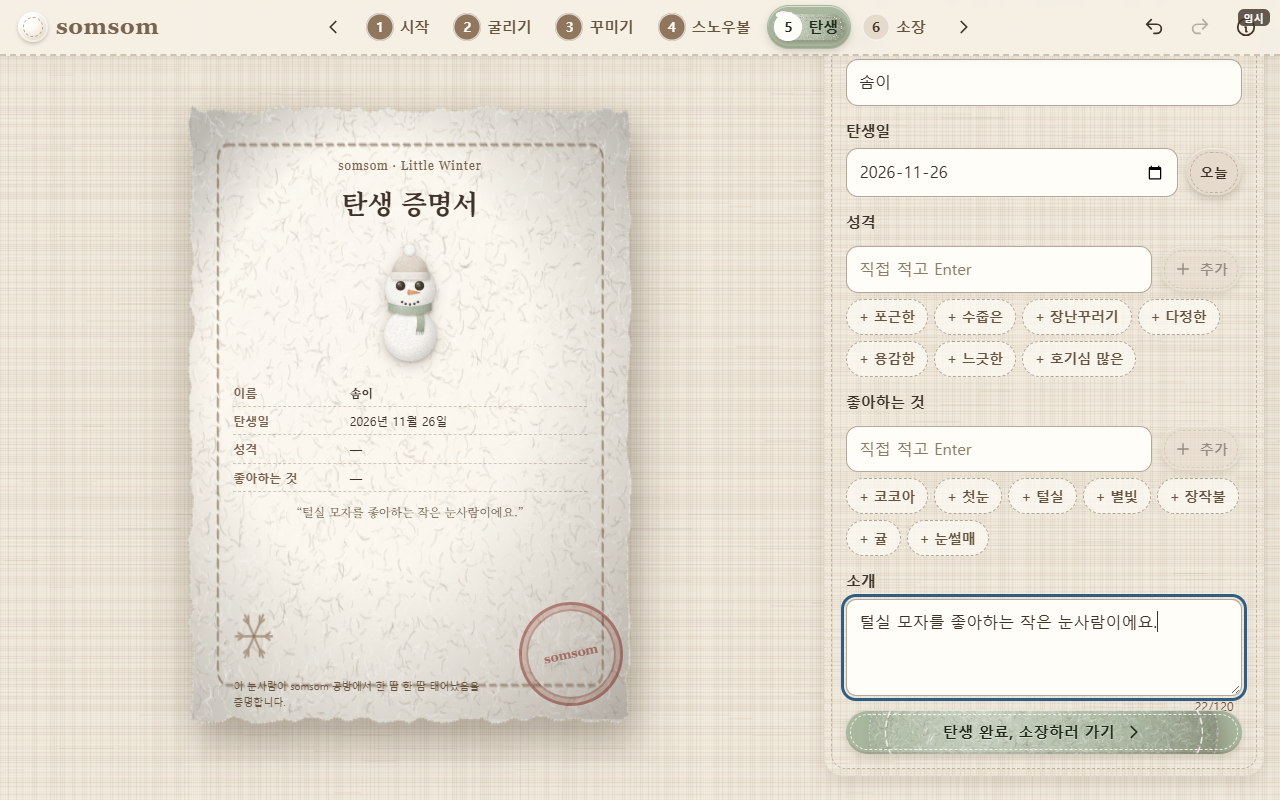
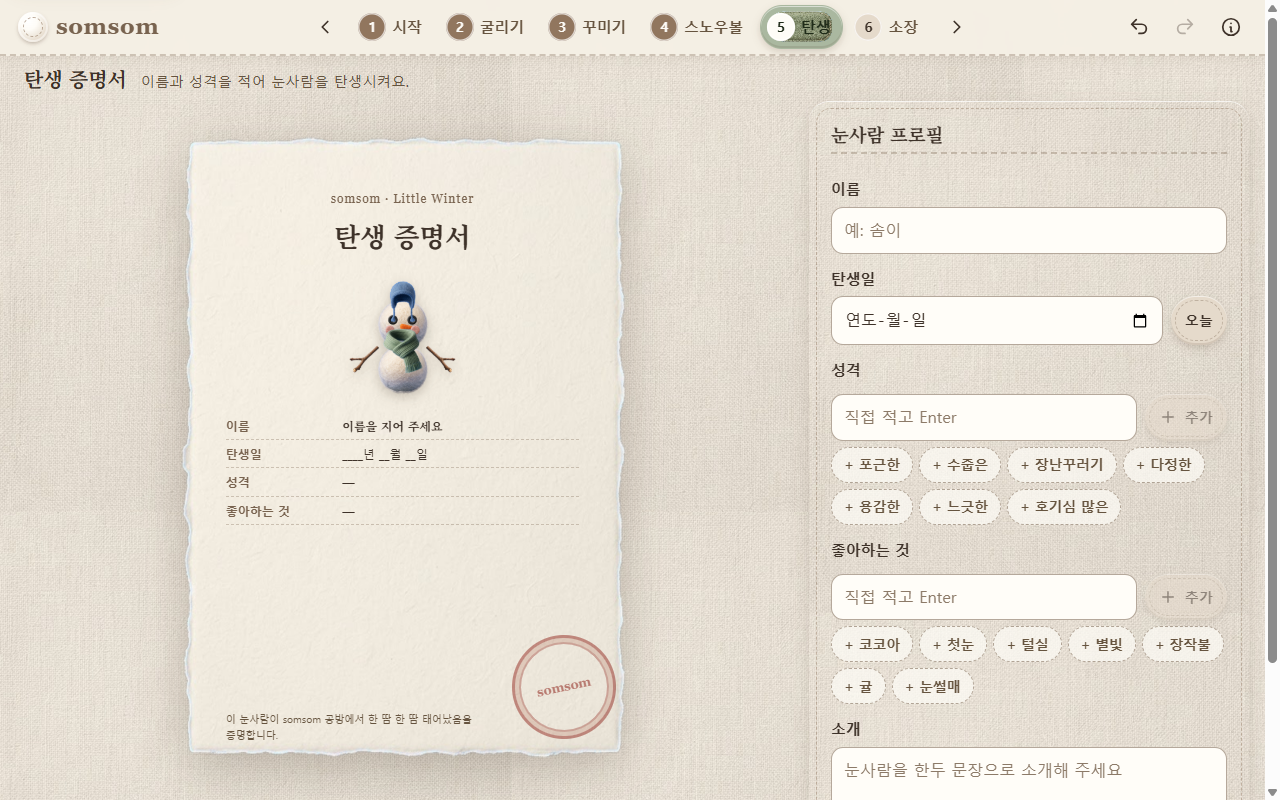
docs: update README status and screenshots for real assets

Changed region(s): [[0.2812, 0.0, 1.0, 1.0], [0.0, 0.0938, 0.5, 1.0], [0.125, 0.5, 0.4062, 0.6562]]

diff --git a/README.md b/README.md
@@ -4,11 +4,11 @@
 
 <p align="center"><img src="public/assets/brand/logo-main.png" alt="somsom Little Winter 로고" width="480"></p>
 
-> **개발 중인 버전입니다.** 메인 로고를 뺀 이미지 에셋 86개는 아직 만들어지지 않았습니다. 지금은 Canvas로 그린 **임시 그림**이 대신 표시되고, 화면에는 '임시' 표시가 붙습니다. 임시 그림은 최종 디자인이 아닙니다.
+> **개발 중인 버전입니다.** 이미지 에셋 87개 중 77개는 실제 이미지입니다. **유리 용기 6개와 촬영 배경 4개**는 아직 만들어지지 않아 Canvas로 그린 **임시 그림**이 대신 표시되고, 화면에는 '임시' 표시가 붙습니다. 임시 그림은 최종 디자인이 아닙니다.
 
 ## 화면
 
-실제 실행 화면입니다(데스크톱 1280px, 모바일 390px). 이름은 예시이고, 재료 그림은 임시 에셋입니다.
+실제 실행 화면입니다(데스크톱 1280px, 모바일 390px). 유리 용기와 촬영 배경은 임시 그림입니다.
 
 | 시작 | 굴리기 | 꾸미기 |
 |---|---|---|
@@ -81,9 +81,9 @@ https://sodam-wd.github.io/somsom/ (게시 전)
 
 ## 알려진 제한
 
-- **에셋 미완료:** 메인 로고를 뺀 86개 에셋(꾸미기 재료 65개, 공방 UI 15종, 로고 심볼·워드마크, 촬영 배경 4종)이 아직 없어 임시 그림을 씁니다. 실제 PNG를 정해진 경로에 넣으면 코드 수정 없이 바뀝니다. 촬영 배경 4종은 제안 상태입니다.
+- **에셋 미완료:** 유리 용기 전후면 6개(`public/assets/glass/`)와 촬영 배경 4종(`public/assets/background/`)이 아직 없어 임시 그림을 씁니다. 실제 PNG를 정해진 경로에 넣으면 코드 수정 없이 바뀝니다. 촬영 배경 4종은 제안 상태입니다.
 - **GIF 미구현:** 스노우볼 GIF 저장(P1)은 아직 구현하지 않았습니다. 버튼만 '준비 중'으로 보입니다.
-- **첫 사용 시 재료 썸네일:** 처음 서랍을 열면 임시 재료 그림을 만드는 동안 잠시(데스크톱 Chrome 측정 약 1.5초) 빈 칸으로 보일 수 있습니다.
+- **이미지 용량:** 실제 에셋 PNG는 모두 합쳐 약 43MB(한 장 0.05–1.3MB)입니다. 느린 모바일 네트워크에서는 처음 서랍을 열 때 재료 그림이 잠시 빈 칸으로 보일 수 있습니다.
 - **미검증 항목:** 위 '지원 환경'의 확인하지 않은 항목은 실제 기기에서 검증하지 않았습니다.
 
 ## 개발자용 실행
